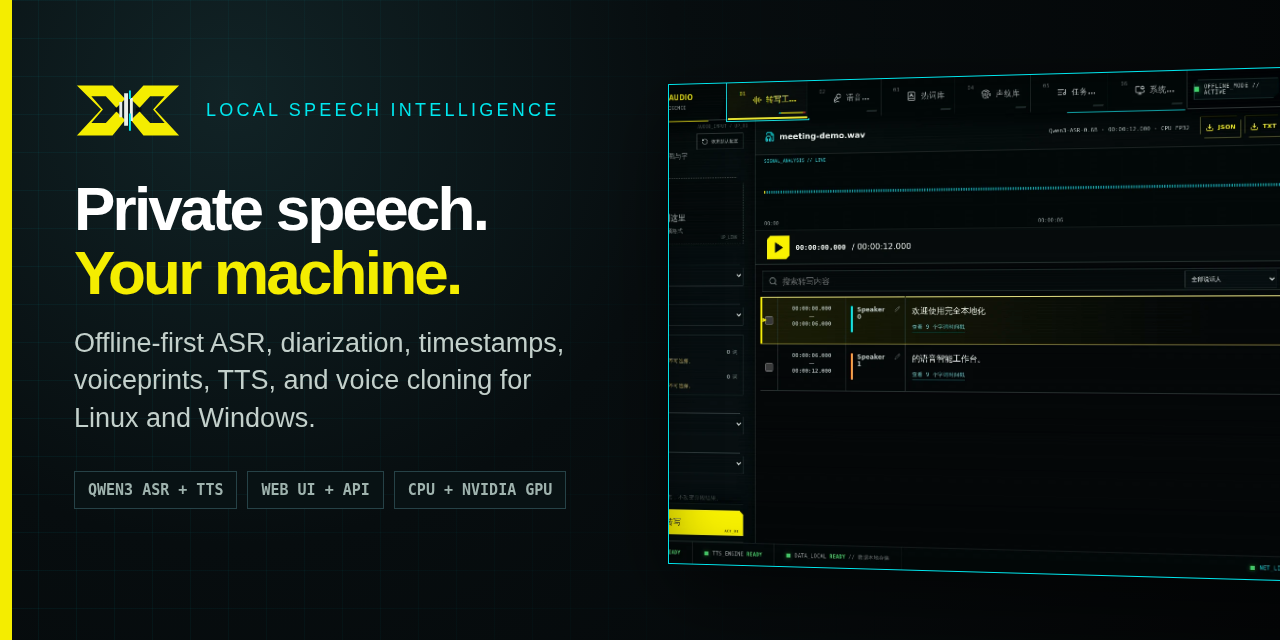
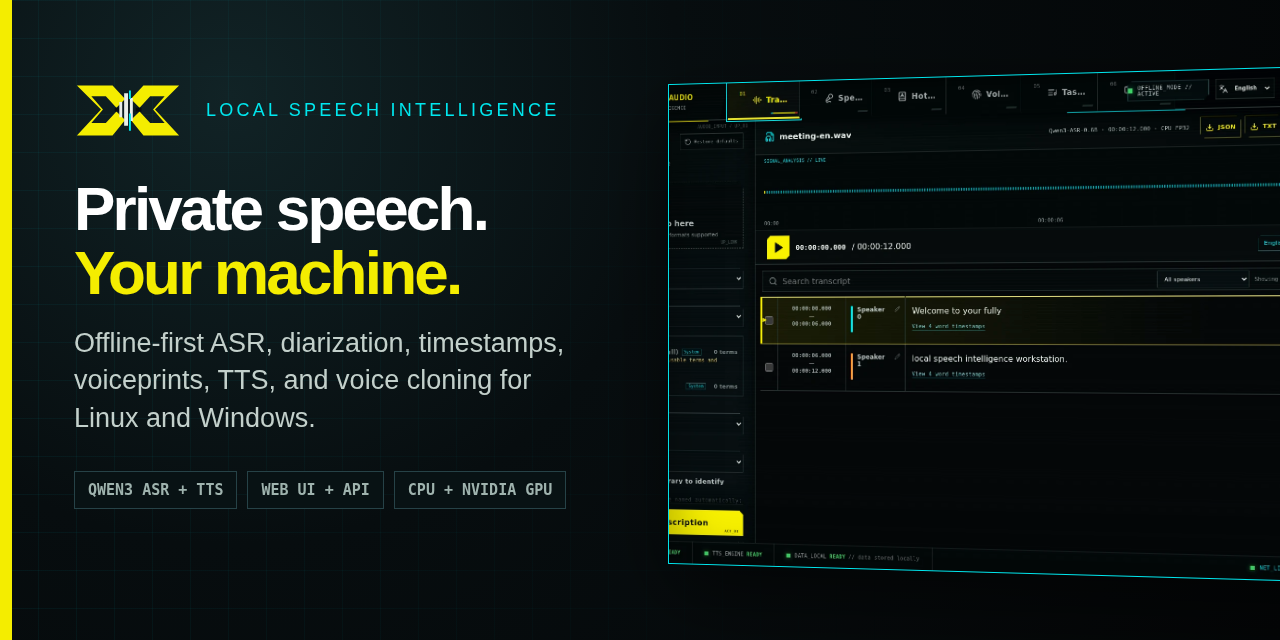
feat(i18n): add localized README screenshots

diff --git a/frontend/src/pages/HotwordsPage.tsx b/frontend/src/pages/HotwordsPage.tsx
@@ -5,7 +5,7 @@ import type {HotwordLibraryCapability,HotwordList,ResourceState} from '../lib/ty
 import {ConfirmDialog} from '../components/ConfirmDialog'
 import {ResourceStatePanel} from '../components/ResourceStatePanel'
 import {useTranslation} from 'react-i18next'
-import type {TFunction} from 'i18next'
+import {hotwordListDisplayName} from '../lib/presentation'
 
 function normalizeText(value:string){return value.normalize('NFKC').trim().replace(/\s+/g,' ')}
 function parseTerms(value:string){const seen=new Set<string>();return value.split(/\r\n|\r|\n/).map(normalizeText).filter(term=>{const key=term.toLocaleLowerCase();if(!term||seen.has(key))return false;seen.add(key);return true})}
@@ -13,8 +13,6 @@ function parseTerms(value:string){const seen=new Set<string>();return value.spli
 const draftKey='audio-intel:hotword-draft:v1'
 type Draft={editingId?:string;name:string;terms:string}
 function loadDraft():Draft{try{const value=JSON.parse(sessionStorage.getItem(draftKey)||'') as Partial<Draft>;return{editingId:typeof value.editingId==='string'?value.editingId:undefined,name:typeof value.name==='string'?value.name:'',terms:typeof value.terms==='string'?value.terms:''}}catch{return{name:'',terms:''}}}
-function displayName(item:HotwordList,t:TFunction){if(item.id==='hotwords_voiceprint_people')return t('hotwords.systemNames.full');if(item.id==='hotwords_voiceprint_people_short')return t('hotwords.systemNames.short');return item.name}
-
 export function HotwordsPage({items,state,limits,refresh}:{items:HotwordList[];state:ResourceState;limits?:HotwordLibraryCapability;refresh:()=>Promise<void>}){
  const {t}=useTranslation()
  const initial=loadDraft()
@@ -44,5 +42,5 @@ export function HotwordsPage({items,state,limits,refresh}:{items:HotwordList[];s
  const validationError=viewingSystem?'':createLimitError||(!normalizedName||!parsed.length?t('hotwords.validation.required'):normalizedName.length>maxName?t('hotwords.validation.nameLength',{count:maxName}):invalidTerm?t('hotwords.validation.invalidTerm',{term:`${invalidTerm.slice(0,18)}${invalidTerm.length>18?'…':''}`,count:maxTerm}):parsed.length>maxTerms?t('hotwords.validation.termLimit',{count:maxTerms}):'')
  const save=async()=>{if(validationError){setError(validationError);return}setBusy(true);setError('');try{if(editing)await api.updateHotwordList(editing.id,normalizedName,parsed);else await api.addHotwordList(normalizedName,parsed);await refresh();open();setNotice(t('hotwords.saved'))}catch(cause){setError((cause as Error).message)}finally{setBusy(false)}}
  const remove=async()=>{const item=pendingDelete;if(!item)return;setBusy(true);setError('');try{await api.removeHotwordList(item.id);await refresh();if(editing?.id===item.id)open();setPendingDelete(undefined);setNotice(t('hotwords.deleted'))}catch(cause){setError((cause as Error).message)}finally{setBusy(false)}}
- return <div className="page-pad hud-page hotwords-page"><div className="page-heading"><div><h1 tabIndex={-1}>{t('hotwords.title')}</h1><p>{t('hotwords.subtitle')}</p></div><span className="online"><BookA size={15}/>LOCAL VOCABULARY</span></div>{error?<p className="error" role="alert">{error}</p>:null}{notice?<p className="notice" role="status">{notice}</p>:null}<div className="hotword-layout"><section className="hotword-list"><header><h2>{t('hotwords.scenarioLists')}</h2></header><ResourceStatePanel state={state} loadingLabel={t('hotwords.loading')} errorLabel={t('hotwords.loadFailed')} retry={()=>void refresh()}/>{state==='ready'&&items.length?items.map(item=>{const itemName=displayName(item,t);return <article key={item.id}><div><b>{itemName}{item.kind==='system'?<em className="system-badge">{t('hotwords.system')}</em>:null}</b><small>{t('hotwords.termPreview',{count:item.term_count,terms:item.terms.slice(0,6).join(t('hotwords.termSeparator')),more:item.term_count>6?'…':''})}</small></div>{item.kind==='system'?<button className="icon-button" aria-label={t('hotwords.viewNamed',{name:itemName})} onClick={()=>open(item)}><Eye/></button>:<><button className="icon-button" aria-label={t('hotwords.editNamed',{name:itemName})} onClick={()=>open(item)}><Pencil/></button><button className="icon-button danger" aria-label={t('hotwords.deleteNamed',{name:itemName})} onClick={()=>setPendingDelete(item)}><Trash2/></button></>}</article>}):state==='ready'?<div className="empty small"><BookA/><p>{t('hotwords.empty')}</p></div>:null}</section><section className="hotword-editor">{state==='ready'?<><h2>{viewingSystem?t('hotwords.systemList'):editing?t('hotwords.editList'):t('hotwords.newList')}</h2><label>{t('hotwords.name')}<input maxLength={maxName} value={viewingSystem&&editing?displayName(editing,t):name} disabled={viewingSystem} readOnly={viewingSystem} placeholder={t('hotwords.namePlaceholder')} onChange={event=>setName(event.target.value)}/><small>{t('hotwords.characterCount',{current:normalizedName.length,max:maxName})}</small></label><label>{t('hotwords.terms')}<textarea value={terms} disabled={viewingSystem} readOnly={viewingSystem} placeholder={t('hotwords.termsPlaceholder')} onChange={event=>setTerms(event.target.value)}/><small>{viewingSystem?t('hotwords.systemTermCount',{count:parsed.length,help:systemTermHelp}):t('hotwords.termCountHelp',{current:parsed.length,max:maxTerms})}</small></label>{validationError&&(createLimitError||name||terms)?<p className="field-error" role="status">{validationError}</p>:null}{viewingSystem?<div className="system-hotword-note" role="note">{systemNote} {t('hotwords.systemAdjustment')}</div>:<div className="section-actions"><button className="primary" disabled={busy||Boolean(validationError)} onClick={()=>void save()}>{busy?t('hotwords.saving'):t('hotwords.save')}</button>{editing||name||terms?<button className="button" disabled={busy} onClick={()=>open()}>{t('hotwords.clear')}</button>:null}</div>}</>:<div className={`editor-unavailable ${state}`} role={state==='error'?'alert':'status'}><BookA/><h2>{state==='error'?t('hotwords.editorUnavailable'):t('hotwords.editorPreparing')}</h2><p>{state==='error'?t('hotwords.editorErrorHelp'):t('hotwords.editorLoadingHelp')}</p></div>}</section></div>{pendingDelete?<ConfirmDialog title={t('hotwords.deleteTitle')} description={t('hotwords.deleteDescription',{name:pendingDelete.name})} confirmLabel={t('common.actions.deletePermanently')} danger busy={busy} onClose={()=>setPendingDelete(undefined)} onConfirm={()=>void remove()}/>:null}</div>
+ return <div className="page-pad hud-page hotwords-page"><div className="page-heading"><div><h1 tabIndex={-1}>{t('hotwords.title')}</h1><p>{t('hotwords.subtitle')}</p></div><span className="online"><BookA size={15}/>LOCAL VOCABULARY</span></div>{error?<p className="error" role="alert">{error}</p>:null}{notice?<p className="notice" role="status">{notice}</p>:null}<div className="hotword-layout"><section className="hotword-list"><header><h2>{t('hotwords.scenarioLists')}</h2></header><ResourceStatePanel state={state} loadingLabel={t('hotwords.loading')} errorLabel={t('hotwords.loadFailed')} retry={()=>void refresh()}/>{state==='ready'&&items.length?items.map(item=>{const itemName=hotwordListDisplayName(item,t);return <article key={item.id}><div><b>{itemName}{item.kind==='system'?<em className="system-badge">{t('hotwords.system')}</em>:null}</b><small>{t('hotwords.termPreview',{count:item.term_count,terms:item.terms.slice(0,6).join(t('hotwords.termSeparator')),more:item.term_count>6?'…':''})}</small></div>{item.kind==='system'?<button className="icon-button" aria-label={t('hotwords.viewNamed',{name:itemName})} onClick={()=>open(item)}><Eye/></button>:<><button className="icon-button" aria-label={t('hotwords.editNamed',{name:itemName})} onClick={()=>open(item)}><Pencil/></button><button className="icon-button danger" aria-label={t('hotwords.deleteNamed',{name:itemName})} onClick={()=>setPendingDelete(item)}><Trash2/></button></>}</article>}):state==='ready'?<div className="empty small"><BookA/><p>{t('hotwords.empty')}</p></div>:null}</section><section className="hotword-editor">{state==='ready'?<><h2>{viewingSystem?t('hotwords.systemList'):editing?t('hotwords.editList'):t('hotwords.newList')}</h2><label>{t('hotwords.name')}<input maxLength={maxName} value={viewingSystem&&editing?hotwordListDisplayName(editing,t):name} disabled={viewingSystem} readOnly={viewingSystem} placeholder={t('hotwords.namePlaceholder')} onChange={event=>setName(event.target.value)}/><small>{t('hotwords.characterCount',{current:normalizedName.length,max:maxName})}</small></label><label>{t('hotwords.terms')}<textarea value={terms} disabled={viewingSystem} readOnly={viewingSystem} placeholder={t('hotwords.termsPlaceholder')} onChange={event=>setTerms(event.target.value)}/><small>{viewingSystem?t('hotwords.systemTermCount',{count:parsed.length,help:systemTermHelp}):t('hotwords.termCountHelp',{current:parsed.length,max:maxTerms})}</small></label>{validationError&&(createLimitError||name||terms)?<p className="field-error" role="status">{validationError}</p>:null}{viewingSystem?<div className="system-hotword-note" role="note">{systemNote} {t('hotwords.systemAdjustment')}</div>:<div className="section-actions"><button className="primary" disabled={busy||Boolean(validationError)} onClick={()=>void save()}>{busy?t('hotwords.saving'):t('hotwords.save')}</button>{editing||name||terms?<button className="button" disabled={busy} onClick={()=>open()}>{t('hotwords.clear')}</button>:null}</div>}</>:<div className={`editor-unavailable ${state}`} role={state==='error'?'alert':'status'}><BookA/><h2>{state==='error'?t('hotwords.editorUnavailable'):t('hotwords.editorPreparing')}</h2><p>{state==='error'?t('hotwords.editorErrorHelp'):t('hotwords.editorLoadingHelp')}</p></div>}</section></div>{pendingDelete?<ConfirmDialog title={t('hotwords.deleteTitle')} description={t('hotwords.deleteDescription',{name:pendingDelete.name})} confirmLabel={t('common.actions.deletePermanently')} danger busy={busy} onClose={()=>setPendingDelete(undefined)} onConfirm={()=>void remove()}/>:null}</div>
 }

diff --git a/frontend/e2e/i18n.spec.ts b/frontend/e2e/i18n.spec.ts
@@ -14,7 +14,11 @@ test('detects, switches, and persists the interface language without reloading p
   if(path==='/api/v1/health')return route.fulfill({json:{status:'ok'}})
   if(path==='/api/v1/system')return route.fulfill({json:{status:'ok',offline:true,bind:'127.0.0.1:20810',services:['asr','tts'],workers:[],hardware:{},models:[],storage:{data:'/tmp/data'}}})
   if(path==='/api/v1/jobs')return route.fulfill({json:{items:[],count:0,total:0,limit:100,offset:0,has_more:false}})
-  if(path==='/api/v1/voiceprints/people'||path==='/api/v1/asr/hotword-lists')return route.fulfill({json:{items:[]}})
+  if(path==='/api/v1/voiceprints/people')return route.fulfill({json:{items:[]}})
+  if(path==='/api/v1/asr/hotword-lists')return route.fulfill({json:{items:[
+   {id:'hotwords_voiceprint_people',name:'声纹库人名（全名）',kind:'system',terms:[],term_count:0},
+   {id:'hotwords_voiceprint_people_short',name:'声纹库人名（去姓）',kind:'system',terms:[],term_count:0},
+  ]}})
   if(path==='/api/v1/tts/voices')return route.fulfill({json:{preset_speakers:['Vivian']}})
   if(path==='/api/v1/capabilities')return route.fulfill({json:{asr:{models:[],languages:['Auto','Chinese','English'],aligner_languages:['Chinese','English'],speaker_count:{min:1,max:15,default:'auto'},voiceprint_library:true},tts:{model_capabilities:[],languages:['Auto','Chinese','English']},limits:{},events:{sse:false}}})
   return route.fulfill({status:404,json:{detail:'not found'}})
@@ -43,5 +47,12 @@ test('detects, switches, and persists the interface language without reloading p
  await expect(switcher).toBeVisible()
  expect((await switcher.boundingBox())!.height).toBeGreaterThanOrEqual(44)
  await page.screenshot({path:'/tmp/audio-intel-i18n-mobile.png',fullPage:false})
+ await page.setViewportSize({width:1280,height:900})
+ await page.goto('/#asr')
+ await expect(page.getByRole('checkbox',{name:/Voiceprint names \(full\)/})).toBeVisible()
+ await expect(page.getByRole('checkbox',{name:/Voiceprint names \(without surname\)/})).toBeVisible()
+ await page.getByRole('combobox',{name:'Interface language'}).selectOption('zh-CN')
+ await expect(page.getByRole('checkbox',{name:/声纹库人名（全名）/})).toBeVisible()
+ await expect(page.getByRole('checkbox',{name:/声纹库人名（去姓）/})).toBeVisible()
  expect(errors).toEqual([])
 })

diff --git a/frontend/src/pages/AsrPage.tsx b/frontend/src/pages/AsrPage.tsx
@@ -8,7 +8,7 @@ import { Modal } from '../components/Modal'
 import { InfoTooltip } from '../components/InfoTooltip'
 import { clearAsrPreferences, defaultAsrPreferences, loadAsrPreferences, publicAlignerLanguages, publicAsrLanguages, saveAsrPreferences, type AsrPreferences } from '../lib/preferences'
 import { visibleWorkspaceJobs } from '../lib/jobs'
-import { computeUnavailableReason } from '../lib/presentation'
+import { computeUnavailableReason, hotwordListDisplayName } from '../lib/presentation'
 import { SubmissionProgress } from '../components/SubmissionProgress'
 import { useTranslation } from 'react-i18next'
 import type { TFunction } from 'i18next'
@@ -214,7 +214,7 @@ export function AsrPage({ jobs, jobDetails, loadJobDetail, onJobSubmitted, onJob
     if (!item.term_count) return t('asr.hotwords.emptySystemList')
     const ids = new Set(selectedHotwordIds)
     ids.add(item.id)
-    return hotwordLimitIssue(ids.size, hotwordStats(hotwordLists, ids), hotwordLimits, t('asr.hotwords.selectionWouldExceed',{name:item.name}), t)
+    return hotwordLimitIssue(ids.size, hotwordStats(hotwordLists, ids), hotwordLimits, t('asr.hotwords.selectionWouldExceed',{name:hotwordListDisplayName(item,t)}), t)
   }
   const updatePreference = <K extends keyof AsrPreferences>(key: K, value: AsrPreferences[K]) =>
     setPreferences((current) => {
@@ -506,7 +506,7 @@ export function AsrPage({ jobs, jobDetails, loadJobDetail, onJobSubmitted, onJob
                     })}
                   />
                   <span>
-                    {item.name}
+                    {hotwordListDisplayName(item,t)}
                     {item.kind === 'system' ? <em>{t('hotwords.system')}</em> : null}
                   </span>
                   <small className="hotword-option-count">{t('asr.hotwords.termCount',{count:item.term_count})}</small>

diff --git a/frontend/src/lib/presentation.ts b/frontend/src/lib/presentation.ts
@@ -1,4 +1,4 @@
-import type {ComputeCapability,JobSummary} from './types'
+import type {ComputeCapability,HotwordList,JobSummary} from './types'
 import type {TFunction} from 'i18next'
 
 export function formatLocalDateTime(value:string|undefined,locale:string,t:TFunction){
@@ -17,6 +17,12 @@ export function computeUnavailableReason(capability:ComputeCapability|undefined,
   if(required)return t('errors.gpuMemoryRequired',{required})
  }
  return capability?.unavailable_reason||fallback||t('errors.gpuFallback')
+}
+
+export function hotwordListDisplayName(item:HotwordList,t:TFunction){
+ if(item.id==='hotwords_voiceprint_people')return t('hotwords.systemNames.full')
+ if(item.id==='hotwords_voiceprint_people_short')return t('hotwords.systemNames.short')
+ return item.name
 }
 
 export function workerStateLabel(value:string,t:TFunction){

diff --git a/asr/pipeline.py b/asr/pipeline.py
@@ -811,6 +811,18 @@ def write_asr_exports(job_id: str, result: dict[str, Any], formats: list[str]) -
     return result
 
 
+def _mock_transcription_examples(requested_language: str | None) -> tuple[str, list[str]]:
+    if requested_language == "English":
+        return "English", [
+            "Welcome to your fully local speech intelligence workstation.",
+            "Transcripts, speakers, and timestamps stay inside this project.",
+        ]
+    return "Chinese", [
+        "欢迎使用完全本地化的语音智能工作台。",
+        "识别、说话人和时间戳都会保存在当前项目中。",
+    ]
+
+
 def process_job(context: JobContext) -> dict[str, Any]:
     request = context.job["request"]
     compute_device = request.get("compute_device", "gpu")
@@ -896,8 +908,13 @@ def process_job(context: JobContext) -> dict[str, Any]:
     try:
         context.progress(0.32, f"qwen3_asr_{compute_device}")
         if settings.mock_mode:
-            examples = ["欢迎使用完全本地化的语音智能工作台。", "识别、说话人和时间戳都会保存在当前项目中。"]
-            transcribed = {"chunks": [{**item, "text": examples[i % len(examples)], "language": "Chinese"} for i, item in enumerate(chunks)]}
+            mock_language, examples = _mock_transcription_examples(request.get("language"))
+            transcribed = {
+                "chunks": [
+                    {**item, "text": examples[i % len(examples)], "language": mock_language}
+                    for i, item in enumerate(chunks)
+                ]
+            }
         else:
             transcribed = run_model_stage(context, "transcribe", {
                 "model_path": str(settings.models_dir / asr_model["name"]),
@@ -936,7 +953,7 @@ def process_job(context: JobContext) -> dict[str, Any]:
         if should_align and settings.mock_mode:
             for item in items:
                 text = item["text"]
-                units = list(text)
+                units = text.split() if item.get("language") == "English" else list(text)
                 step = (item["end"] - item["start"]) / max(len(units), 1)
                 item["words"] = [{"text": unit, "start": round(item["start"] + i * step, 3), "end": round(item["start"] + (i + 1) * step, 3)} for i, unit in enumerate(units)]
         elif should_align:

diff --git a/tests/test_documentation.py b/tests/test_documentation.py
@@ -71,17 +71,26 @@ def test_readmes_keep_parallel_information_architecture() -> None:
 
 def test_readme_assets_are_bounded_and_reproducible() -> None:
     asset_dir = ROOT / "docs" / "assets" / "readme"
-    expected = {
-        "asr-workspace.webp": 500_000,
-        "tts-workspace.webp": 500_000,
-        "job-history.webp": 500_000,
-        "social-preview.png": 1_000_000,
-    }
-    for name, maximum_bytes in expected.items():
-        path = asset_dir / name
-        assert path.is_file()
-        assert path.stat().st_size < maximum_bytes
-    assert (ROOT / "scripts" / "capture_readme_assets.mjs").is_file()
+    for locale in ("en-US", "zh-CN"):
+        for name in ("asr-workspace.webp", "tts-workspace.webp", "job-history.webp"):
+            path = asset_dir / locale / name
+            assert path.is_file()
+            assert path.stat().st_size < 500_000
+    assert (asset_dir / "social-preview.png").stat().st_size < 1_000_000
+    for stale_name in ("asr-workspace.webp", "tts-workspace.webp", "job-history.webp"):
+        assert not (asset_dir / stale_name).exists()
+
+    english = (ROOT / "README.md").read_text(encoding="utf-8")
+    chinese = (ROOT / "README_CN.md").read_text(encoding="utf-8")
+    assert english.count("docs/assets/readme/en-US/") == 3
+    assert "docs/assets/readme/zh-CN/" not in english
+    assert chinese.count("docs/assets/readme/zh-CN/") == 3
+    assert "docs/assets/readme/en-US/" not in chinese
+
+    capture_script = (ROOT / "scripts" / "capture_readme_assets.mjs").read_text(encoding="utf-8")
+    assert "audio-intel:ui-locale:v1" in capture_script
+    assert "locale:'zh-CN'" in capture_script
+    assert "locale:'en-US'" in capture_script
 
 
 def test_docs_do_not_link_to_removed_chinese_readme_anchor() -> None:

diff --git a/tests/test_core.py b/tests/test_core.py
@@ -27,6 +27,16 @@ def test_utilities() -> None:
     assert waveform_peaks([0, -0.5, 0.2, 1], 2) == [0.5, 1.0]
 
 
+def test_mock_asr_examples_follow_explicit_capture_language() -> None:
+    english_language, english_examples = asr_pipeline._mock_transcription_examples("English")
+    chinese_language, chinese_examples = asr_pipeline._mock_transcription_examples("Chinese")
+
+    assert english_language == "English"
+    assert english_examples[0].startswith("Welcome")
+    assert chinese_language == "Chinese"
+    assert chinese_examples[0].startswith("欢迎")
+
+
 def test_model_progress_is_throttled_and_boundary_can_be_forced(monkeypatch) -> None:
     emitted = []
     clock = iter((1.0, 1.1, 1.7, 1.8))

diff --git a/README.md b/README.md
@@ -31,7 +31,7 @@
   <a href="LICENSE"><img alt="Code license: Apache 2.0" src="https://img.shields.io/badge/code%20license-Apache--2.0-blue"></a>
 </p>
 
-![Sandevistan Audio local ASR workspace showing a speaker-separated transcript and export controls](docs/assets/readme/asr-workspace.webp)
+![Sandevistan Audio local ASR workspace showing a speaker-separated transcript and export controls](docs/assets/readme/en-US/asr-workspace.webp)
 
 > [!NOTE]
 > The Web UI supports Simplified Chinese and English. Use the language selector in the header or sign-in dialog; the choice is stored locally in the browser. The local Swagger API guide is also bilingual.
@@ -60,8 +60,8 @@
 - Add a durable speech backend to local tools through asynchronous or OpenAI-compatible APIs.
 
 <p align="center">
-  <img src="docs/assets/readme/tts-workspace.webp" width="49%" alt="Sandevistan Audio TTS workspace with preset voice synthesis">
-  <img src="docs/assets/readme/job-history.webp" width="49%" alt="Sandevistan Audio persistent ASR and TTS job history">
+  <img src="docs/assets/readme/en-US/tts-workspace.webp" width="49%" alt="Sandevistan Audio TTS workspace with preset voice synthesis">
+  <img src="docs/assets/readme/en-US/job-history.webp" width="49%" alt="Sandevistan Audio persistent ASR and TTS job history">
 </p>
 
 ## Quick Start

diff --git a/README_CN.md b/README_CN.md
@@ -31,7 +31,7 @@
   <a href="LICENSE"><img alt="自有代码许可证：Apache 2.0" src="https://img.shields.io/badge/code%20license-Apache--2.0-blue"></a>
 </p>
 
-![Sandevistan Audio 本地 ASR 工作区，展示说话人分离结果与导出控件](docs/assets/readme/asr-workspace.webp)
+![Sandevistan Audio 本地 ASR 工作区，展示说话人分离结果与导出控件](docs/assets/readme/zh-CN/asr-workspace.webp)
 
 ## 主要能力
 
@@ -57,8 +57,8 @@
 - 通过异步或 OpenAI 兼容 API，为本地工具提供持久化语音后端。
 
 <p align="center">
-  <img src="docs/assets/readme/tts-workspace.webp" width="49%" alt="Sandevistan Audio 预置音色语音合成工作区">
-  <img src="docs/assets/readme/job-history.webp" width="49%" alt="Sandevistan Audio 持久化 ASR 与 TTS 任务记录">
+  <img src="docs/assets/readme/zh-CN/tts-workspace.webp" width="49%" alt="Sandevistan Audio 预置音色语音合成工作区">
+  <img src="docs/assets/readme/zh-CN/job-history.webp" width="49%" alt="Sandevistan Audio 持久化 ASR 与 TTS 任务记录">
 </p>
 
 ## 快速开始
